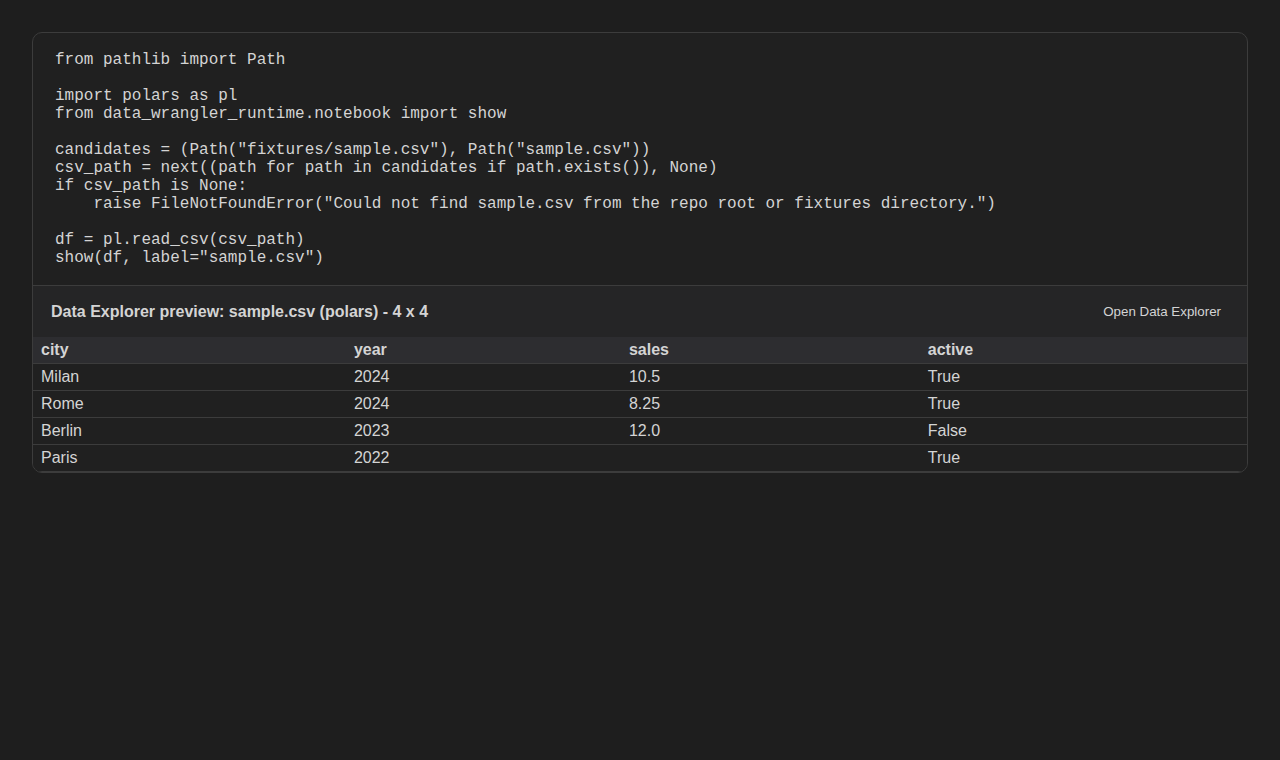
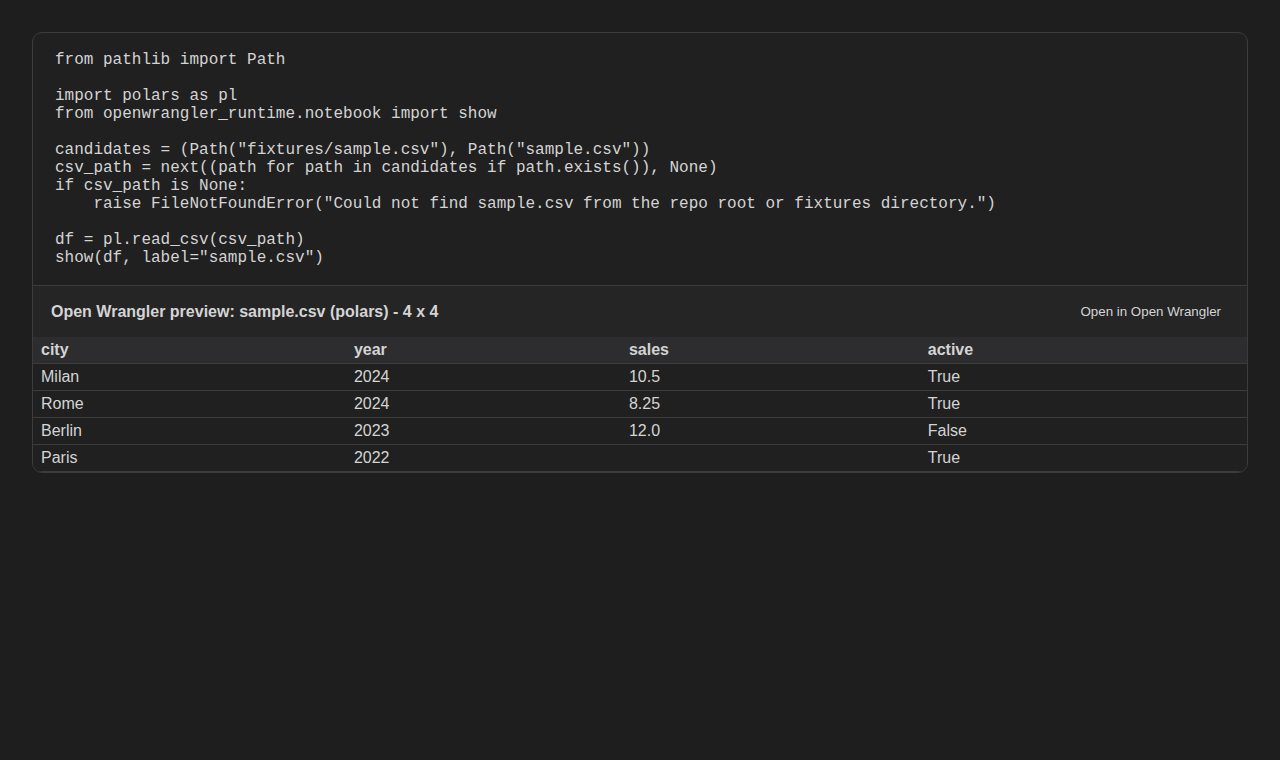
fix: harden Open Wrangler migration and release evidence

Changed region(s): [[0.0938, 0.1211, 0.4062, 0.1816], [0.0312, 0.3934, 0.3438, 0.4237], [0.8438, 0.3934, 0.9375, 0.4237]]

diff --git a/src/test/extensionHost/index.ts b/src/test/extensionHost/index.ts
@@ -5,6 +5,7 @@ import { tmpdir } from "node:os";
 import * as path from "node:path";
 import * as vscode from "vscode";
 import { chromium } from "playwright-core";
+import { getSetting } from "../../extension/configuration";
 import { insertGeneratedNotebookCell } from "../../extension/notebooks/notebookInsertion";
 import { OPEN_WRANGLER_MIME_V1, OPEN_WRANGLER_MIME_V2 } from "../../shared/notebookOutput";
 import type {
@@ -19,7 +20,7 @@ import type {
 interface TestApi {
   request(request: OpenWranglerRequest): Promise<OpenWranglerResponse>;
   setActiveSession(sessionId: string | undefined): void;
-  activeSession(): { sessionId: string; metadata: SessionMetadata } | undefined;
+  activeSession(): { sessionId: string; metadata: SessionMetadata; code?: string } | undefined;
   diagnostics(): {
     activeSessionId?: string;
     sessionCount: number;
@@ -63,6 +64,9 @@ export async function run(): Promise<void> {
   if (testPython) {
     await vscode.workspace
       .getConfiguration("openWrangler")
+      .update("pythonPath", undefined, vscode.ConfigurationTarget.Global);
+    await vscode.workspace
+      .getConfiguration("dataExplorer")
       .update("pythonPath", testPython, vscode.ConfigurationTarget.Global);
   }
 
@@ -233,10 +237,19 @@ async function capturePackagedEditorScreenshots(
 
   const workbench = vscode.workspace.getConfiguration("workbench");
   const windowConfiguration = vscode.workspace.getConfiguration("window");
+  const scm = vscode.workspace.getConfiguration("scm");
+  const typescript = vscode.workspace.getConfiguration("typescript");
+  const javascript = vscode.workspace.getConfiguration("javascript");
   const originalTheme = workbench.get<string>("colorTheme");
+  const originalStatusBarVisible = workbench.get<boolean>("statusBar.visible");
   const originalZoom = windowConfiguration.get<number>("zoomLevel");
+  const originalTitle = windowConfiguration.get<string>("title");
+  const originalCommandCenter = windowConfiguration.get<boolean>("commandCenter");
   const originalAutoDetectColorScheme = windowConfiguration.get<boolean>("autoDetectColorScheme");
   const originalAutoDetectHighContrast = windowConfiguration.get<boolean>("autoDetectHighContrast");
+  const originalScmCountBadge = scm.get<string>("countBadge");
+  const originalTypescriptValidation = typescript.get<boolean>("validate.enable");
+  const originalJavascriptValidation = javascript.get<boolean>("validate.enable");
   const editor = process.env.OPEN_WRANGLER_TEST_EDITOR ?? "editor";
   const cdpPort = Number(process.env.OPEN_WRANGLER_EDITOR_CDP_PORT);
   assert.ok(Number.isInteger(cdpPort) && cdpPort > 0, "Editor screenshot capture requires a CDP port.");
@@ -255,8 +268,20 @@ async function capturePackagedEditorScreenshots(
   const lightTheme = contributedTheme("vs", "Default Light Modern");
   const highContrastTheme = contributedTheme("hc-black", "Default High Contrast");
   try {
+    await workbench.update("statusBar.visible", false, vscode.ConfigurationTarget.Global);
+    await windowConfiguration.update(
+      "title",
+      "${activeEditorShort}${separator}Open Wrangler",
+      vscode.ConfigurationTarget.Global
+    );
+    await windowConfiguration.update("commandCenter", false, vscode.ConfigurationTarget.Global);
+    await scm.update("countBadge", "off", vscode.ConfigurationTarget.Global);
+    await typescript.update("validate.enable", false, vscode.ConfigurationTarget.Global);
+    await javascript.update("validate.enable", false, vscode.ConfigurationTarget.Global);
     await windowConfiguration.update("autoDetectColorScheme", false, vscode.ConfigurationTarget.Global);
     await windowConfiguration.update("autoDetectHighContrast", false, vscode.ConfigurationTarget.Global);
+    await prepareWorkbenchForEvidence();
+    await new Promise((resolve) => setTimeout(resolve, 800));
     await captureTheme(darkTheme, vscode.ColorThemeKind.Dark, 0, `${editor}-dark.png`);
     await captureTheme(lightTheme, vscode.ColorThemeKind.Light, 0, `${editor}-light.png`);
     await captureTheme(
@@ -267,7 +292,13 @@ async function capturePackagedEditorScreenshots(
     );
   } finally {
     await workbench.update("colorTheme", originalTheme, vscode.ConfigurationTarget.Global);
+    await workbench.update("statusBar.visible", originalStatusBarVisible, vscode.ConfigurationTarget.Global);
     await windowConfiguration.update("zoomLevel", originalZoom, vscode.ConfigurationTarget.Global);
+    await windowConfiguration.update("title", originalTitle, vscode.ConfigurationTarget.Global);
+    await windowConfiguration.update("commandCenter", originalCommandCenter, vscode.ConfigurationTarget.Global);
+    await scm.update("countBadge", originalScmCountBadge, vscode.ConfigurationTarget.Global);
+    await typescript.update("validate.enable", originalTypescriptValidation, vscode.ConfigurationTarget.Global);
+    await javascript.update("validate.enable", originalJavascriptValidation, vscode.ConfigurationTarget.Global);
     await windowConfiguration.update(
       "autoDetectColorScheme",
       originalAutoDetectColorScheme,
@@ -299,6 +330,7 @@ async function capturePackagedEditorScreenshots(
       10_000,
       `${theme} to activate before screenshot capture`
     );
+    await clearNotifications();
     await vscode.commands.executeCommand("workbench.action.focusActiveEditorGroup");
     await new Promise((resolve) => setTimeout(resolve, 800));
     const destination = path.resolve(outputDirectory, fileName);
@@ -306,6 +338,37 @@ async function capturePackagedEditorScreenshots(
     await capturePage.screenshot({ path: destination, animations: "disabled" });
     const image = readFileSync(destination);
     assert.deepEqual([...image.subarray(0, 8)], [137, 80, 78, 71, 13, 10, 26, 10]);
+  }
+
+  async function prepareWorkbenchForEvidence(): Promise<void> {
+    const commands = new Set(await vscode.commands.getCommands(true));
+    const auxiliaryBar = capturePage.locator(".part.auxiliarybar");
+    if ((await auxiliaryBar.count()) > 0 && (await auxiliaryBar.isVisible())) {
+      const closeCommand = commands.has("workbench.action.closeAuxiliaryBar")
+        ? "workbench.action.closeAuxiliaryBar"
+        : commands.has("workbench.action.toggleAuxiliaryBar")
+          ? "workbench.action.toggleAuxiliaryBar"
+          : undefined;
+      if (closeCommand) {
+        await vscode.commands.executeCommand(closeCommand);
+        await auxiliaryBar.waitFor({ state: "hidden", timeout: 10_000 });
+      }
+    }
+    await clearNotifications(commands);
+  }
+
+  async function clearNotifications(commands?: Set<string>): Promise<void> {
+    const availableCommands = commands ?? new Set(await vscode.commands.getCommands(true));
+    if (availableCommands.has("notifications.clearAll")) {
+      await vscode.commands.executeCommand("notifications.clearAll");
+    }
+    if (availableCommands.has("notifications.hideList")) {
+      await vscode.commands.executeCommand("notifications.hideList");
+    }
+    await capturePage
+      .locator(".notifications-toasts")
+      .waitFor({ state: "hidden", timeout: 10_000 })
+      .catch(() => {});
   }
 
   function contributedTheme(uiTheme: string, fallback: string): string {
@@ -932,11 +995,7 @@ async function exerciseRuntimeSelectionCommands(testing: TestApi, fixture: vscod
 
     assert.equal(await vscode.commands.executeCommand("openWrangler.clearRuntime"), true);
     assert.equal(config.inspect<string>("pythonPath")?.workspaceValue, undefined);
-    assert.equal(
-      vscode.workspace.getConfiguration("openWrangler").get<string>("pythonPath"),
-      python,
-      "Clearing the workspace override must reveal the fallback."
-    );
+    assert.equal(getSetting("pythonPath", ""), python, "Clearing the workspace override must reveal the fallback.");
   } finally {
     rmSync(directory, { recursive: true, force: true });
   }
@@ -1181,11 +1240,22 @@ async function exercisePackagedOperationGroups(testing: TestApi, sourceFixture: 
         active?.metadata.schema.map((column) => column.name),
         ["active", "total_sales"]
       );
+      assert.match(active?.code ?? "", /def clean_data/u, `${backend} must retain executable generated code.`);
 
       const editedCode = `# edited ${backend} code preview\ndef clean_data(df):\n    return df\n`;
+      const priorClipboard = await vscode.env.clipboard.readText();
       testing.setCodeForExport(editedCode);
       await vscode.commands.executeCommand("openWrangler.copyCode");
-      assert.equal(await vscode.env.clipboard.readText(), editedCode, `${backend} must copy the edited code buffer.`);
+      let copied = false;
+      const clipboardDeadline = Date.now() + 5_000;
+      while (!copied && Date.now() < clipboardDeadline) {
+        copied = (await vscode.env.clipboard.readText()) === editedCode;
+        if (!copied) await new Promise((resolve) => setTimeout(resolve, 50));
+      }
+      assert.ok(copied, `${backend} must copy the edited code buffer.`);
+      if ((await vscode.env.clipboard.readText()) === editedCode) {
+        await vscode.env.clipboard.writeText(priorClipboard);
+      }
       const scriptPath = path.join(directory, `${backend}.clean.py`);
       await vscode.commands.executeCommand("openWrangler.exportCode", vscode.Uri.file(scriptPath));
       assert.equal(readFileSync(scriptPath, "utf8"), editedCode, `${backend} must export the edited code buffer.`);

diff --git a/src/extension/configuration.ts b/src/extension/configuration.ts
@@ -3,22 +3,22 @@ import * as vscode from "vscode";
 export const CONFIGURATION_SECTION = "openWrangler";
 export const LEGACY_CONFIGURATION_SECTION = "dataExplorer";
 
-export function getSetting<T>(key: string, fallback: T): T {
-  const canonical = vscode.workspace.getConfiguration(CONFIGURATION_SECTION);
+export function getSetting<T>(key: string, fallback: T, resource?: vscode.Uri): T {
+  const canonical = vscode.workspace.getConfiguration(CONFIGURATION_SECTION, resource);
   const canonicalExplicit = explicitValue<T>(canonical.inspect<T>(key));
   if (canonicalExplicit !== undefined) return canonicalExplicit;
 
-  const legacy = vscode.workspace.getConfiguration(LEGACY_CONFIGURATION_SECTION);
+  const legacy = vscode.workspace.getConfiguration(LEGACY_CONFIGURATION_SECTION, resource);
   const legacyExplicit = explicitValue<T>(legacy.inspect<T>(key));
   if (legacyExplicit !== undefined) return legacyExplicit;
 
   return canonical.get<T>(key, fallback);
 }
 
-export function getExplicitSetting<T>(key: string): T | undefined {
+export function getExplicitSetting<T>(key: string, resource?: vscode.Uri): T | undefined {
   return (
-    explicitValue<T>(vscode.workspace.getConfiguration(CONFIGURATION_SECTION).inspect<T>(key)) ??
-    explicitValue<T>(vscode.workspace.getConfiguration(LEGACY_CONFIGURATION_SECTION).inspect<T>(key))
+    explicitValue<T>(vscode.workspace.getConfiguration(CONFIGURATION_SECTION, resource).inspect<T>(key)) ??
+    explicitValue<T>(vscode.workspace.getConfiguration(LEGACY_CONFIGURATION_SECTION, resource).inspect<T>(key))
   );
 }
 

diff --git a/src/extension/pythonEnvironment.ts b/src/extension/pythonEnvironment.ts
@@ -2,6 +2,7 @@ import { execFile } from "node:child_process";
 import { existsSync } from "node:fs";
 import { promisify } from "node:util";
 import * as vscode from "vscode";
+import { getSetting } from "./configuration";
 import { resolvePythonExecutable } from "./pythonPath";
 import { isSupportedPythonVersion } from "./pythonEnvironmentModel";
 
@@ -34,7 +35,7 @@ export async function resolvePythonEnvironment(
   context: vscode.ExtensionContext,
   resource?: vscode.Uri
 ): Promise<PythonEnvironment> {
-  const configured = vscode.workspace.getConfiguration("openWrangler", resource).get<string>("pythonPath", "").trim();
+  const configured = getSetting("pythonPath", "", resource).trim();
   if (configured) {
     const executable = resolvePythonExecutable(
       configured,

diff --git a/src/extension/nativeViews.ts b/src/extension/nativeViews.ts
@@ -117,6 +117,7 @@ class CodePreviewViewProvider implements vscode.WebviewViewProvider, vscode.Disp
   }
 
   setCodeForExportForTests(code: string): void {
+    this.generatedCode = code;
     this.displayedCode = code;
     this.render();
   }

diff --git a/python/openwrangler_runtime/engines/base.py b/python/openwrangler_runtime/engines/base.py
@@ -31,7 +31,7 @@ INTERNAL_ROW_ID_PREFIX = "__open_wrangler_internal_row_id_"
 
 
 class EngineError(RuntimeError):
-    """Raised when a backend cannot satisfy a Open Wrangler request."""
+    """Raised when a backend cannot satisfy an Open Wrangler request."""
 
 
 @dataclass(frozen=True)

diff --git a/python/openwrangler_runtime/kernel_agent.py b/python/openwrangler_runtime/kernel_agent.py
@@ -12,7 +12,7 @@ _manager = SessionManager()
 
 
 def dispatch_json(payload: str) -> str:
-    """Dispatch a Open Wrangler request inside the active Jupyter kernel."""
+    """Dispatch an Open Wrangler request inside the active Jupyter kernel."""
     try:
         decoded = json.loads(payload)
         if isinstance(decoded, dict) and "protocolVersion" in decoded:

diff --git a/docs/reference.md b/docs/reference.md
@@ -54,6 +54,19 @@
 | `openWrangler.renderer.enabled`    | `boolean` | `true`                                         | —                                  | Enable Open Wrangler notebook MIME renderer messaging. Saved v1 and v2 outputs remain readable.                                                     |
 | `openWrangler.pythonPath`          | `string`  | `""`                                           | —                                  | Optional Python 3.10-3.14 executable override. When empty, Open Wrangler uses the selected Python extension environment, then a system interpreter. |
 | `openWrangler.requestTimeoutMs`    | `number`  | `30000`                                        | —                                  | Maximum runtime request duration before recovery restarts and replays the session.                                                                  |
+| `dataExplorer.defaultBackend`      | `string`  | `"auto"`                                       | `"auto"`, `"polars"`, `"pandas"`   | undefined                                                                                                                                           |
+| `dataExplorer.fileStartMode`       | `string`  | `"editing"`                                    | `"editing"`, `"viewing"`           | undefined                                                                                                                                           |
+| `dataExplorer.notebookStartMode`   | `string`  | `"viewing"`                                    | `"viewing"`, `"editing"`           | undefined                                                                                                                                           |
+| `dataExplorer.enabledFileTypes`    | `array`   | `["csv","tsv","parquet","jsonl","xlsx","xls"]` | —                                  | undefined                                                                                                                                           |
+| `dataExplorer.insightsOnOpen`      | `boolean` | `true`                                         | —                                  | undefined                                                                                                                                           |
+| `dataExplorer.filterMode`          | `string`  | `"basic"`                                      | `"basic"`, `"advanced"`            | undefined                                                                                                                                           |
+| `dataExplorer.defaultColumnWidth`  | `number`  | `190`                                          | —                                  | undefined                                                                                                                                           |
+| `dataExplorer.fetchBlockSize`      | `number`  | `200`                                          | —                                  | undefined                                                                                                                                           |
+| `dataExplorer.pageSize`            | `number`  | `200`                                          | —                                  | undefined                                                                                                                                           |
+| `dataExplorer.panelRevealBehavior` | `string`  | `"onDraft"`                                    | `"onDraft"`, `"always"`, `"never"` | undefined                                                                                                                                           |
+| `dataExplorer.renderer.enabled`    | `boolean` | `true`                                         | —                                  | undefined                                                                                                                                           |
+| `dataExplorer.pythonPath`          | `string`  | `""`                                           | —                                  | undefined                                                                                                                                           |
+| `dataExplorer.requestTimeoutMs`    | `number`  | `30000`                                        | —                                  | undefined                                                                                                                                           |
 
 ## Transformation operations
 

diff --git a/docs/feature-parity.md b/docs/feature-parity.md
@@ -249,12 +249,14 @@ Packaged notebook and remote-kernel slice, 2026-07-15:
 
 This makes notebook variable launch, inline v1/v2 rendering and full-view expansion, and clipboard/script/originating-notebook code export **Done**.
 
-Packaged editor visual acceptance slice, 2026-07-15:
+Open Wrangler rename and packaged-editor visual acceptance refresh, 2026-07-16:
 
-- The exact allowlisted VSIX is installed into disposable VS Code 1.128.0 and Cursor 3.11.19 profiles. Playwright connects to each isolated Electron workbench, opens the packaged custom editor and Open Wrangler Activity Bar container, and captures the actual window rather than a reconstructed browser shell.
+- The renamed `matt17br.openwrangler@0.2.0-alpha.2` VSIX contains 56 allowlisted entries and is installed into disposable VS Code 1.128.1 and Cursor 3.11.19 profiles. Playwright connects to each isolated Electron workbench, opens the packaged custom editor and Open Wrangler Activity Bar container, and captures the actual window rather than a reconstructed browser shell.
 - Both editors record dark and light themes at normal zoom plus a high-contrast theme at VS Code zoom level 5 (200%). The harness temporarily disables OS theme auto-detection, waits for the public active-theme kind to change, captures the workbench, and restores every setting. Cursor's isolated first-run login overlay is bypassed with its documented `--skip-onboarding` test-process flag; no normal editor profile is read or changed.
 - The six checked-in captures under `docs/images/editor-acceptance/` visibly include the original faceted-table Activity Bar mark, native Operations, Summary, Filters/Sorts, and Cleaning Steps views, the custom grid, and the Code Preview panel. Extension-host assertions independently verify that the 128/256px gallery PNG and monochrome `currentColor` SVG are present in the installed package.
 - The production-bundle matrix remains the exhaustive UI gate: 23 Playwright/axe harnesses cover dark, light, high-contrast dark/light, 800/1280/1920px widths, 80–200% zoom, interaction/state fixtures, keyboard paths, and WCAG 2.0/2.1/2.2 A/AA rules. The editor screenshots prove those token-driven surfaces integrate into both real workbench chromes.
+
+- The packaged runtime-selection path is exercised with only the legacy `dataExplorer.pythonPath` value configured, proving the renamed resolver honors existing user configuration. The package-ID change is handled explicitly: commands, settings, custom-editor opens, and saved MIME output remain compatible, while old private workspace-state plans cannot be transferred by the VS Code API.
 
 This makes original icons, native views, themes, and accessibility **Done**. Every in-scope row in the Open Wrangler 1.0 clean-room parity matrix is now **Done**; `1.0.0` remains gated on the release workflow and cross-platform tag validation rather than an unfinished feature row.
 

diff --git a/CHANGELOG.md b/CHANGELOG.md
@@ -7,7 +7,7 @@ All notable changes to Open Wrangler are documented here. The project follows Se
 ### Changed
 
 - Renamed the product, VS Code package, bundled runtime, protocol schema, repository metadata, documentation, test harnesses, and release artifacts from Data Explorer to Open Wrangler.
-- Added canonical `openWrangler.*` commands and settings while retaining `dataExplorer.*`, the prior custom-editor ID, persisted workspace plans, and both existing notebook MIME identifiers as compatibility interfaces.
+- Added canonical `openWrangler.*` commands and settings while retaining `dataExplorer.*`, the prior custom-editor ID, and both existing notebook MIME identifiers as compatibility interfaces. Documented that VS Code does not expose the old package's private workspace state to the renamed extension ID.
 - Refreshed the product description to state the open-source dataframe-wrangling purpose directly and documented the project's independent inspiration from Microsoft Data Wrangler.
 
 ## [0.2.0-alpha.1] - 2026-07-15

diff --git a/README.md b/README.md
@@ -4,7 +4,7 @@ Open Wrangler is an open-source dataframe wrangler for VS Code-compatible editor
 
 Open Wrangler is an independent, clean-room project explicitly inspired by Microsoft Data Wrangler for VS Code and deliberately targets parity with its documented viewing and cleaning workflows. It does not copy Microsoft code or assets. Data Wrangler is closed source, which makes it difficult to contribute features upstream, adapt it for VS Code forks such as Cursor, or add backend-native capabilities such as first-class Polars support. Open Wrangler exists to make that workflow open, hackable, portable across VS Code-compatible editors, and engine-friendly from the start.
 
-The project was called Data Explorer through `0.2.0-alpha.1`. The renamed extension package is `Matt17BR.openwrangler`; uninstall the old package before installing Open Wrangler because both versions intentionally expose compatibility commands. Canonical commands and settings now use `openWrangler.*`. The prior `dataExplorer.*` command IDs, settings, custom-editor ID, workspace state, and saved `application/vnd.data-explorer...` notebook outputs continue to work so existing editor configuration and notebooks do not need a forced migration.
+The project was called Data Explorer through `0.2.0-alpha.1`. The renamed extension package is `Matt17BR.openwrangler`; uninstall the old package before installing Open Wrangler because both versions intentionally expose compatibility commands. Canonical commands and settings now use `openWrangler.*`. The prior `dataExplorer.*` command IDs, settings, custom-editor ID, and saved `application/vnd.data-explorer...` notebook outputs remain compatible. VS Code keeps workspace state private to an extension ID, so cleaning plans saved by the old package cannot be imported automatically after the package-ID rename; reopen the source and recreate those plans in Open Wrangler.
 
 ## Screenshots
 

diff --git a/docs/architecture.md b/docs/architecture.md
@@ -38,7 +38,7 @@ Code may be copied from the editable CodeMirror buffer, saved as a Python script
 
 ## Persistence and compatibility
 
-The public product and package name changed from Data Explorer to Open Wrangler in `0.2.0-alpha.2`. New commands, settings, view IDs, renderer IDs, context keys, runtime modules, protocol schema paths, and test controls use Open Wrangler naming. The extension registers the previously published `dataExplorer.*` commands and custom-editor ID as aliases, reads explicitly configured `dataExplorer.*` settings when no canonical value is set, and replays plans from the prior workspace-state key. The saved notebook MIME identifiers retain `application/vnd.data-explorer...` so existing notebook outputs remain renderable. These compatibility interfaces require a documented major-version migration before removal.
+The public product and package name changed from Data Explorer to Open Wrangler in `0.2.0-alpha.2`. New commands, settings, view IDs, renderer IDs, context keys, runtime modules, protocol schema paths, and test controls use Open Wrangler naming. The extension registers the previously published `dataExplorer.*` commands and custom-editor ID as aliases and reads explicitly configured `dataExplorer.*` settings when no canonical value is set. The saved notebook MIME identifiers retain `application/vnd.data-explorer...` so existing notebook outputs remain renderable. VS Code scopes `workspaceState` to the extension ID; because the package ID also changed, the new package cannot read plans stored by the old package even though the internal legacy key remains recognized for same-ID development migrations. These compatibility interfaces require a documented major-version migration before removal.
 
 Serializable import options, viewing state, widths, and transformation steps are stored by source identity in VS Code workspace state. The persisted payload contains only the filter model, validated steps, and optional draft—not binary dataframe content, runtime IDs, profiles, or statistics. Reopening a source reconstructs the plan through the same preview/apply protocol before showing it; malformed or non-replayable state opens the immutable original with a warning. Notebook sessions can only replay when their variable exists again.
 